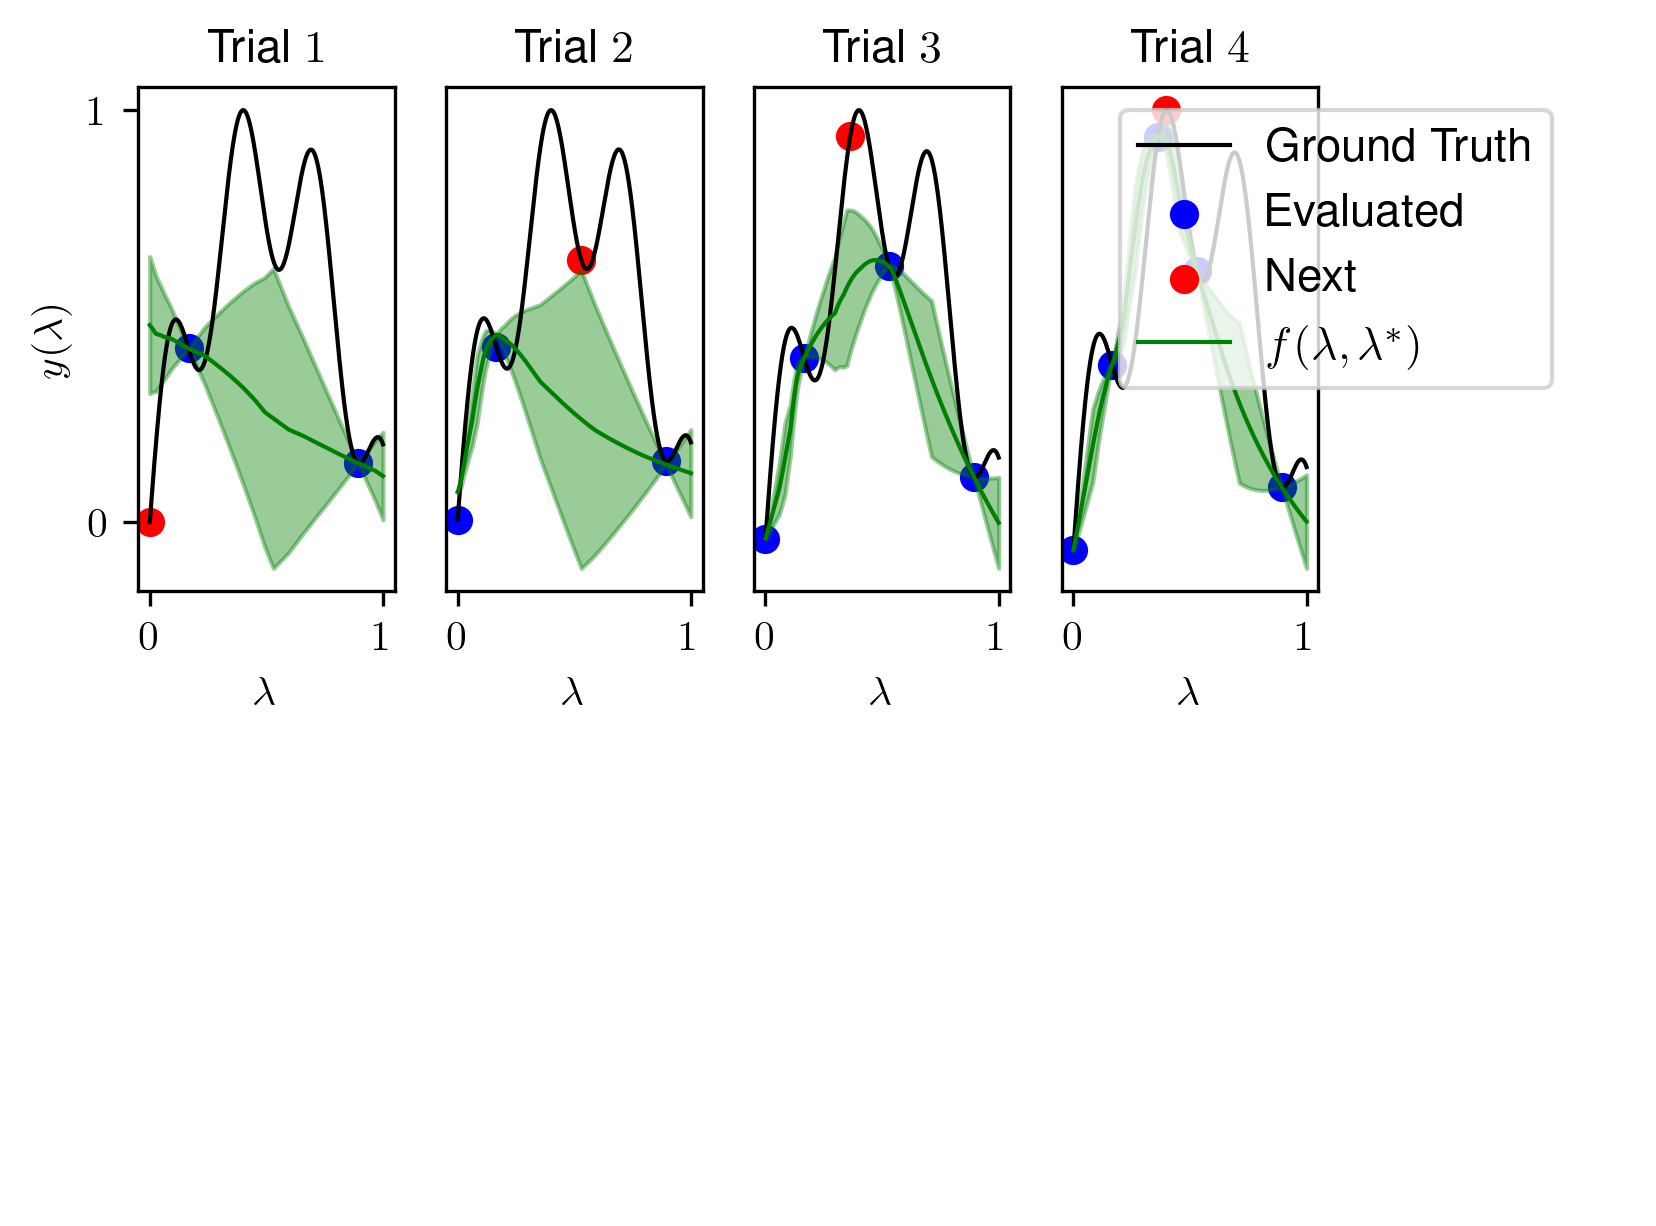
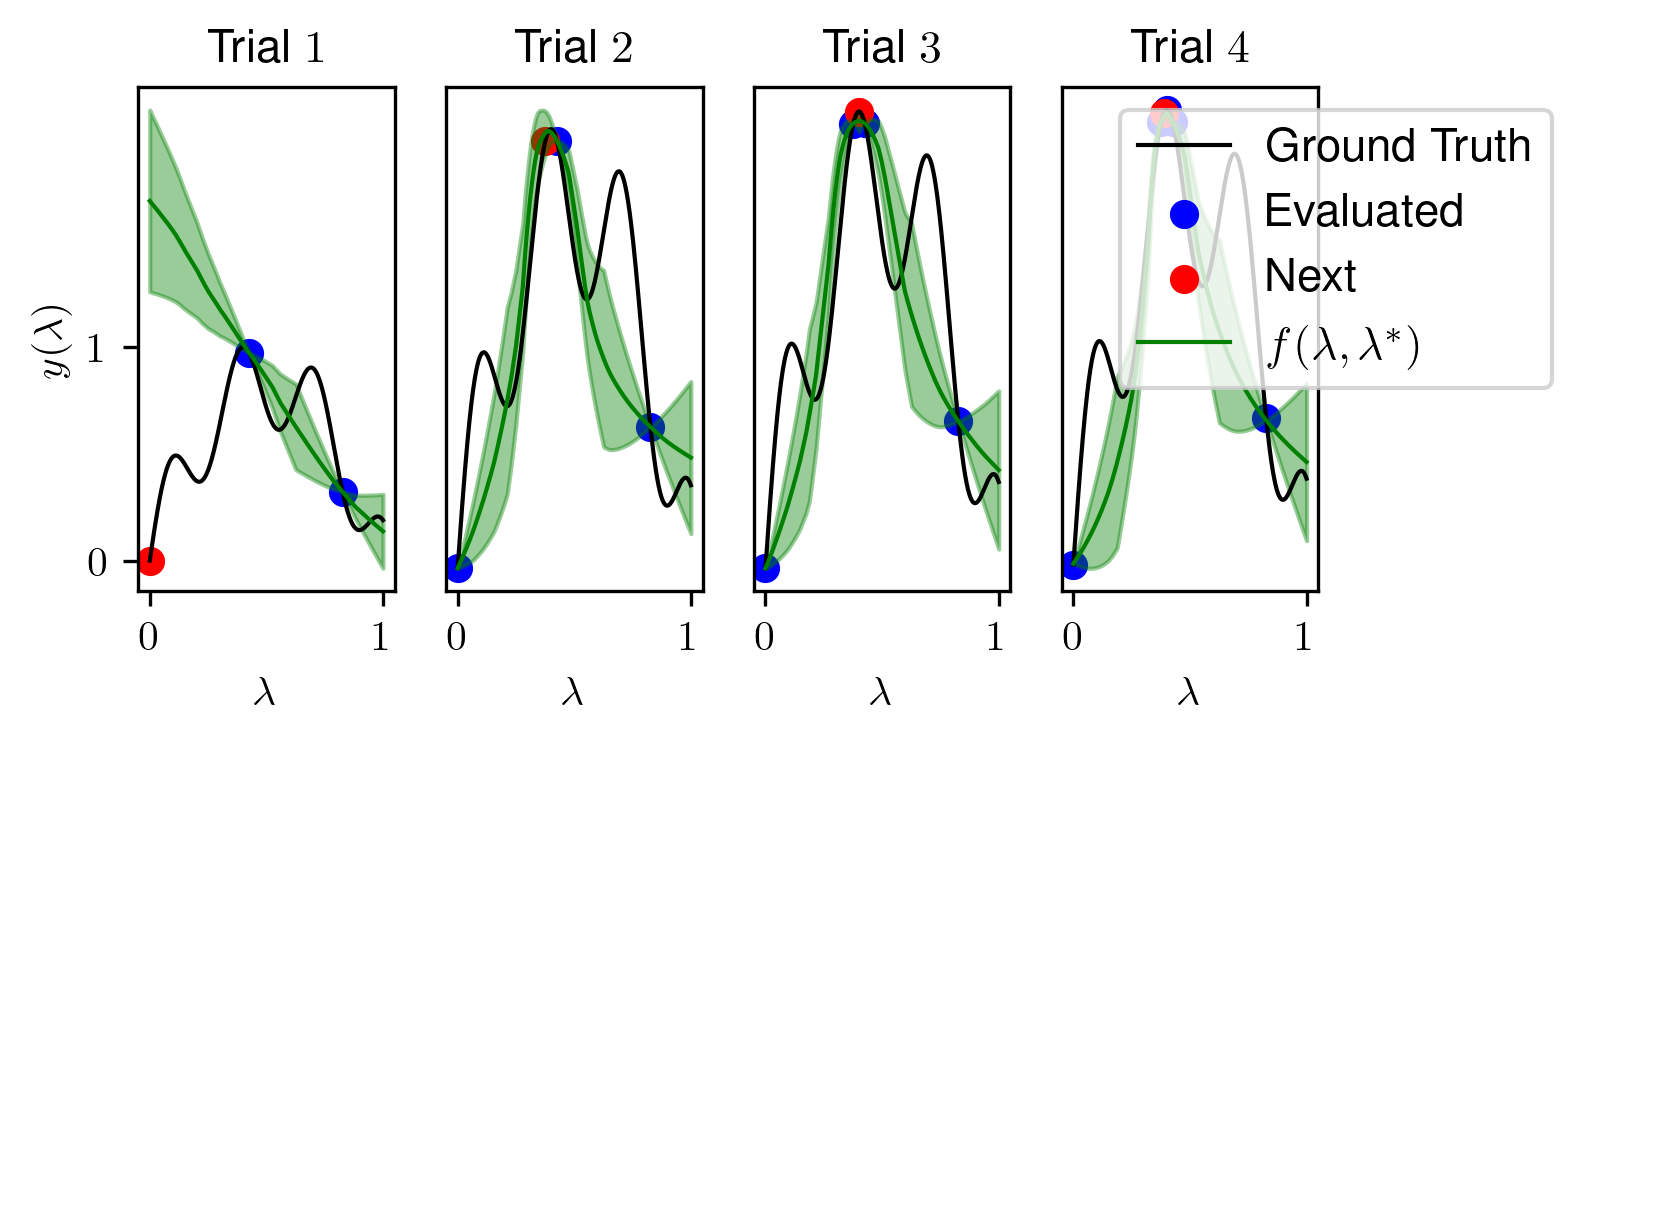
working version

Changed region(s): [[0.0616, 0.093, 0.4312, 0.4649], [0.4312, 0.062, 0.6159, 0.4649], [0.6467, 0.093, 0.8007, 0.4649]]

diff --git a/methods/nn_bo_synth.py b/methods/nn_bo_synth.py
@@ -16,7 +16,7 @@ class NeuralNetworkBOSynth():
 
         # the hyper-hyperparameter configurations of the method
         if config is None:
-            self.config = {'is_rank_version': False, 'eta': 0.01, 'optim_iters': 2000, 'train_batch_size': 30,
+            self.config = {'is_rank_version': False, 'eta': 0.01, 'optim_iters': 1000, 'train_batch_size': 30,
           'acquisition_batch_size': 1000, 'log_iters': 1000, 'hidden_layers_units': [16, 16, 16, 16, 16],
           'use_batch_norm': False, 'use_dropout': False, 'dropout_rate': 0.0, 'beta': 7.0}
         else:

diff --git a/poc/main_poc.py b/poc/main_poc.py
@@ -16,7 +16,7 @@ initial_design_idxs = random.sample(range(num_evals), num_initial_observations)
 #initial_design_idxs = [550]
 
 # create an smbo method
-config = {'is_rank_version': False, 'eta': 0.01, 'optim_iters': 2000, 'train_batch_size': 30,
+config = {'is_rank_version': False, 'eta': 0.01, 'optim_iters': 1000, 'train_batch_size': 30,
           'acquisition_batch_size': 1000, 'log_iters': 1000, 'hidden_layers_units': [16, 16, 16, 16, 16],
           'use_batch_norm': False, 'use_dropout': False, 'dropout_rate': 0.0, 'beta': 3.0}
 
